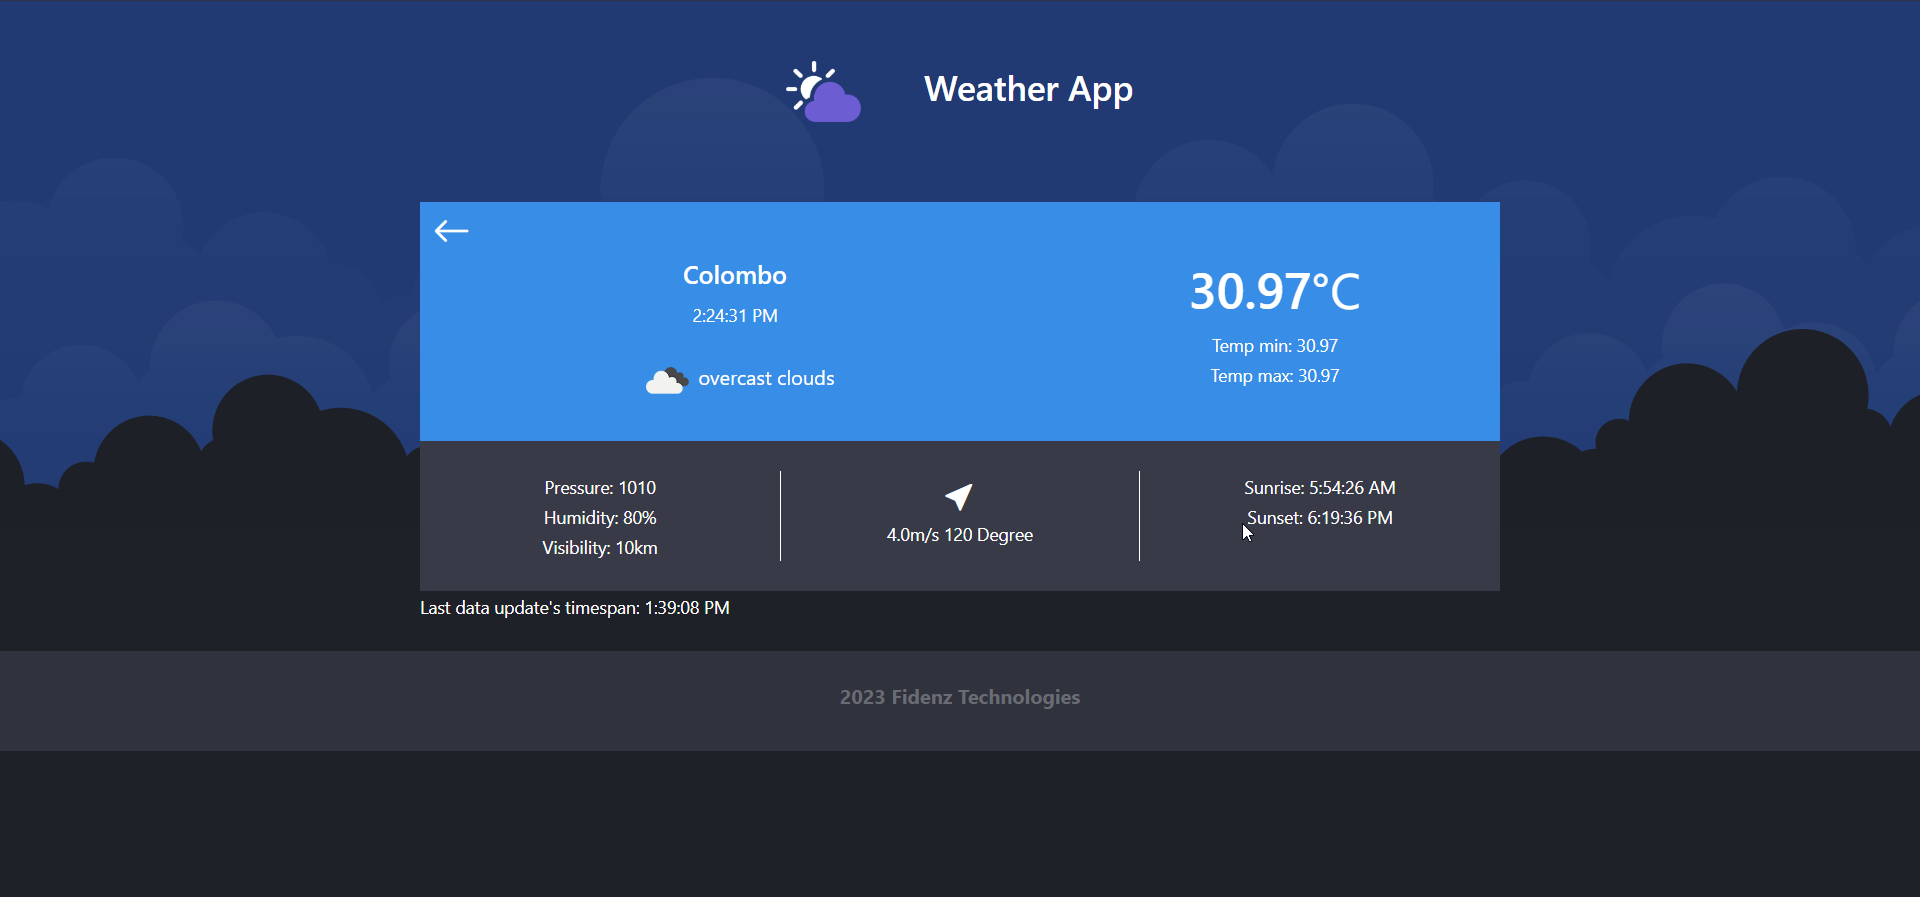
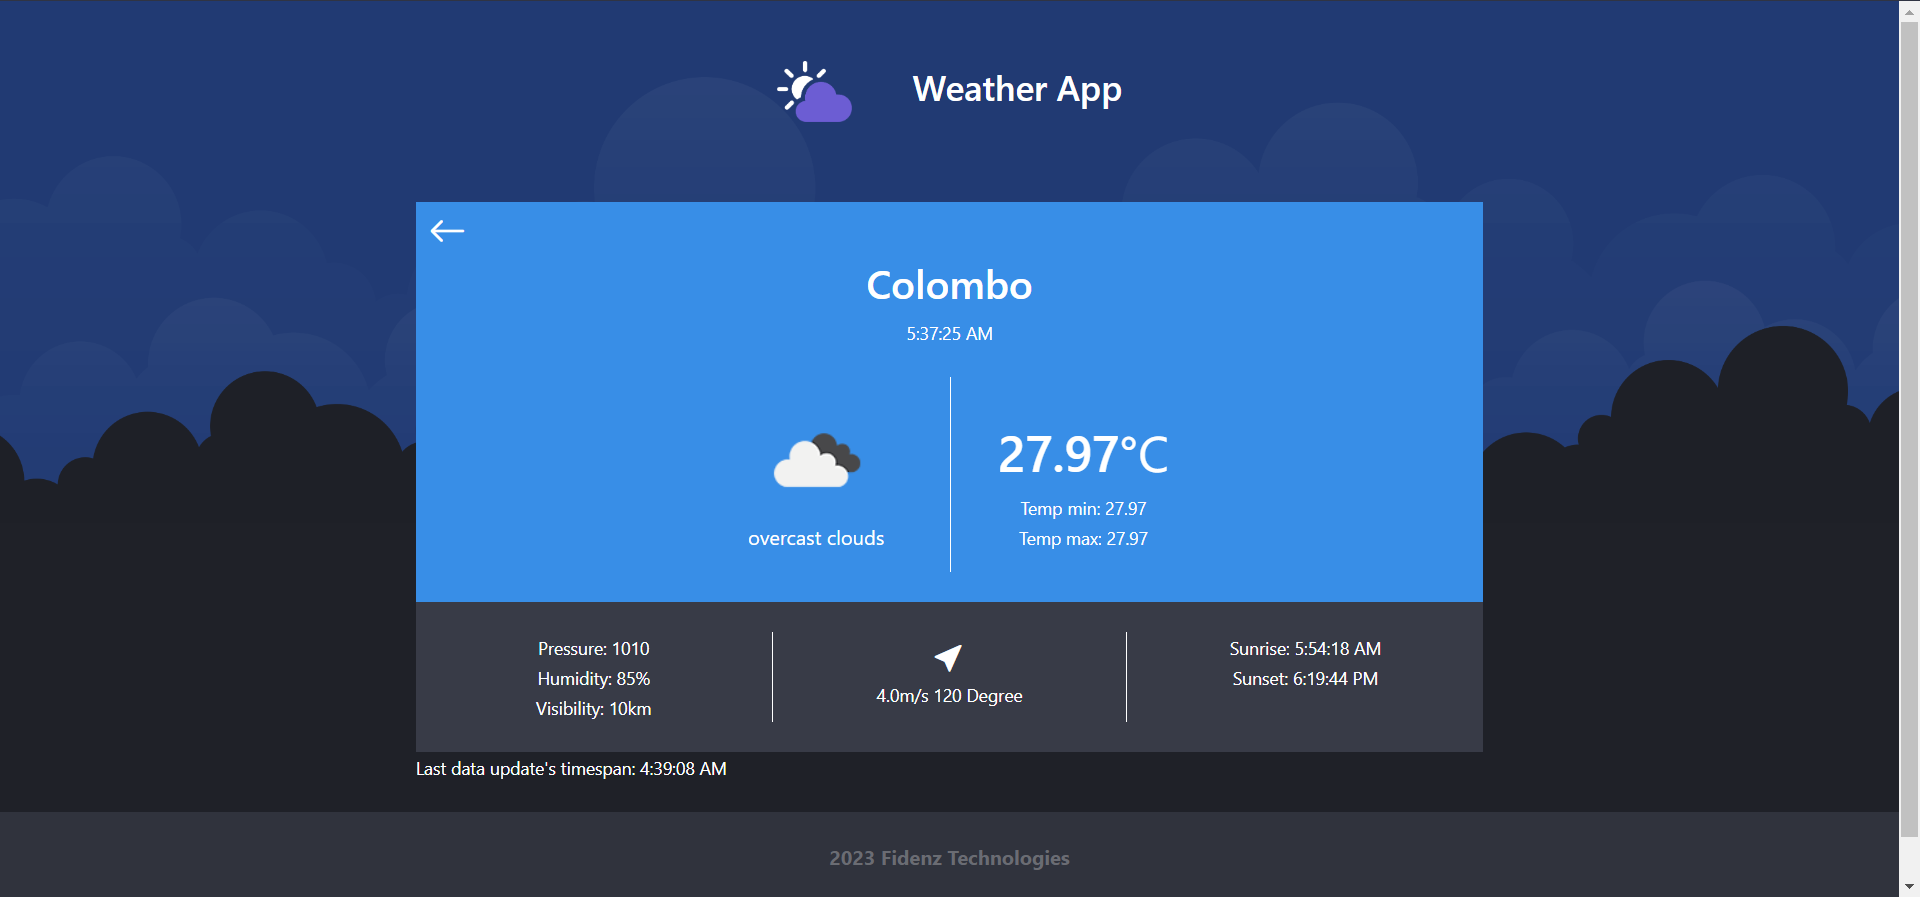
Modified UI of viewWeatherCard.jsx file.

diff --git a/frontend/src/components/dashboard/viewWeatherCard.jsx b/frontend/src/components/dashboard/viewWeatherCard.jsx
@@ -32,28 +32,44 @@ const ViewWeatherCard = () => {
                   onClick={handleClickEvent}
                 ></i>
               </div>
-              <div className="col-7 mt-0 text-center">
-                <div className="col-12">
-                  <h5>{weatherDate.name}</h5>
-                  <small>{new Date().toLocaleTimeString()}</small>
-                </div>
-                <div className="col-12 mt-3">
-                  <img
-                    src={`https://openweathermap.org/img/wn/${weatherDate.weather[0].icon}@2x.png`}
-                    alt=""
-                    style={{ width: "50px", height: "auto" }}
-                  />
-                  {weatherDate.weather[0].description}
-                </div>
-              </div>
-              <div className="col-5 text-center">
-                <div>
-                  <h1>{weatherDate.main.temp}&#8451;</h1>
-                </div>
-                <div>
-                  <small>Temp min: {weatherDate.main.temp_min}</small>
-                  <br />
-                  <small>Temp max: {weatherDate.main.temp_max}</small>
+              <div className="col-12">
+                <div className="col-sm-6" style={{ margin: "auto" }}>
+                  <div className="col-12 text-center mb-4">
+                    <h2>{weatherDate.name}</h2>
+                    <small>{new Date().toLocaleTimeString()}</small>
+                  </div>
+                  <div className="col-12 d-flex">
+                    <div className="col-6 mt-0 text-center">
+                      <div className="col-12 mt-3 pb-3">
+                        <div className="col-12">
+                          <img
+                            src={`https://openweathermap.org/img/wn/${weatherDate.weather[0].icon}@2x.png`}
+                            alt=""
+                            style={{ width: "100px", height: "auto" }}
+                          />
+                        </div>
+                        <div className="col-12">
+                          {weatherDate.weather[0].description}
+                        </div>
+                      </div>
+                    </div>
+                    <div className="col-6 text-center d-flex align-items-end justify-content-center viewcard pb-3">
+                      <div>
+                        <div className="col-12">
+                          <h1>{weatherDate.main.temp}&#8451;</h1>
+                        </div>
+                        <div>
+                          <small className="col-12">
+                            Temp min: {weatherDate.main.temp_min}
+                          </small>
+                          <br />
+                          <small className="col-12">
+                            Temp max: {weatherDate.main.temp_max}
+                          </small>
+                        </div>
+                      </div>
+                    </div>
+                  </div>
                 </div>
               </div>
             </div>
@@ -95,7 +111,7 @@ const ViewWeatherCard = () => {
           </div>
         </div>
       ) : (
-        <div>Boom</div>
+        <div>Content not available</div>
       )}
     </div>
   );

diff --git a/frontend/src/App.css b/frontend/src/App.css
@@ -45,6 +45,14 @@ body {
   border-bottom: 0;
 }
 
+.viewcard {
+  border-color: white;
+  border: 1px solid;
+  border-top: 0;
+  border-bottom: 0;
+  border-right: 0;
+}
+
 .weather-card .card-view {
   background-image: url("../public/resources/card-background.png");
   background-repeat: no-repeat;

diff --git a/frontend/src/components/dashboard/weatherCardList.jsx b/frontend/src/components/dashboard/weatherCardList.jsx
@@ -43,7 +43,7 @@ const WeatherCardList = () => {
           </div>
         </div>
       ) : (
-        ""
+        <div>Content not available</div>
       )}
     </div>
   );
